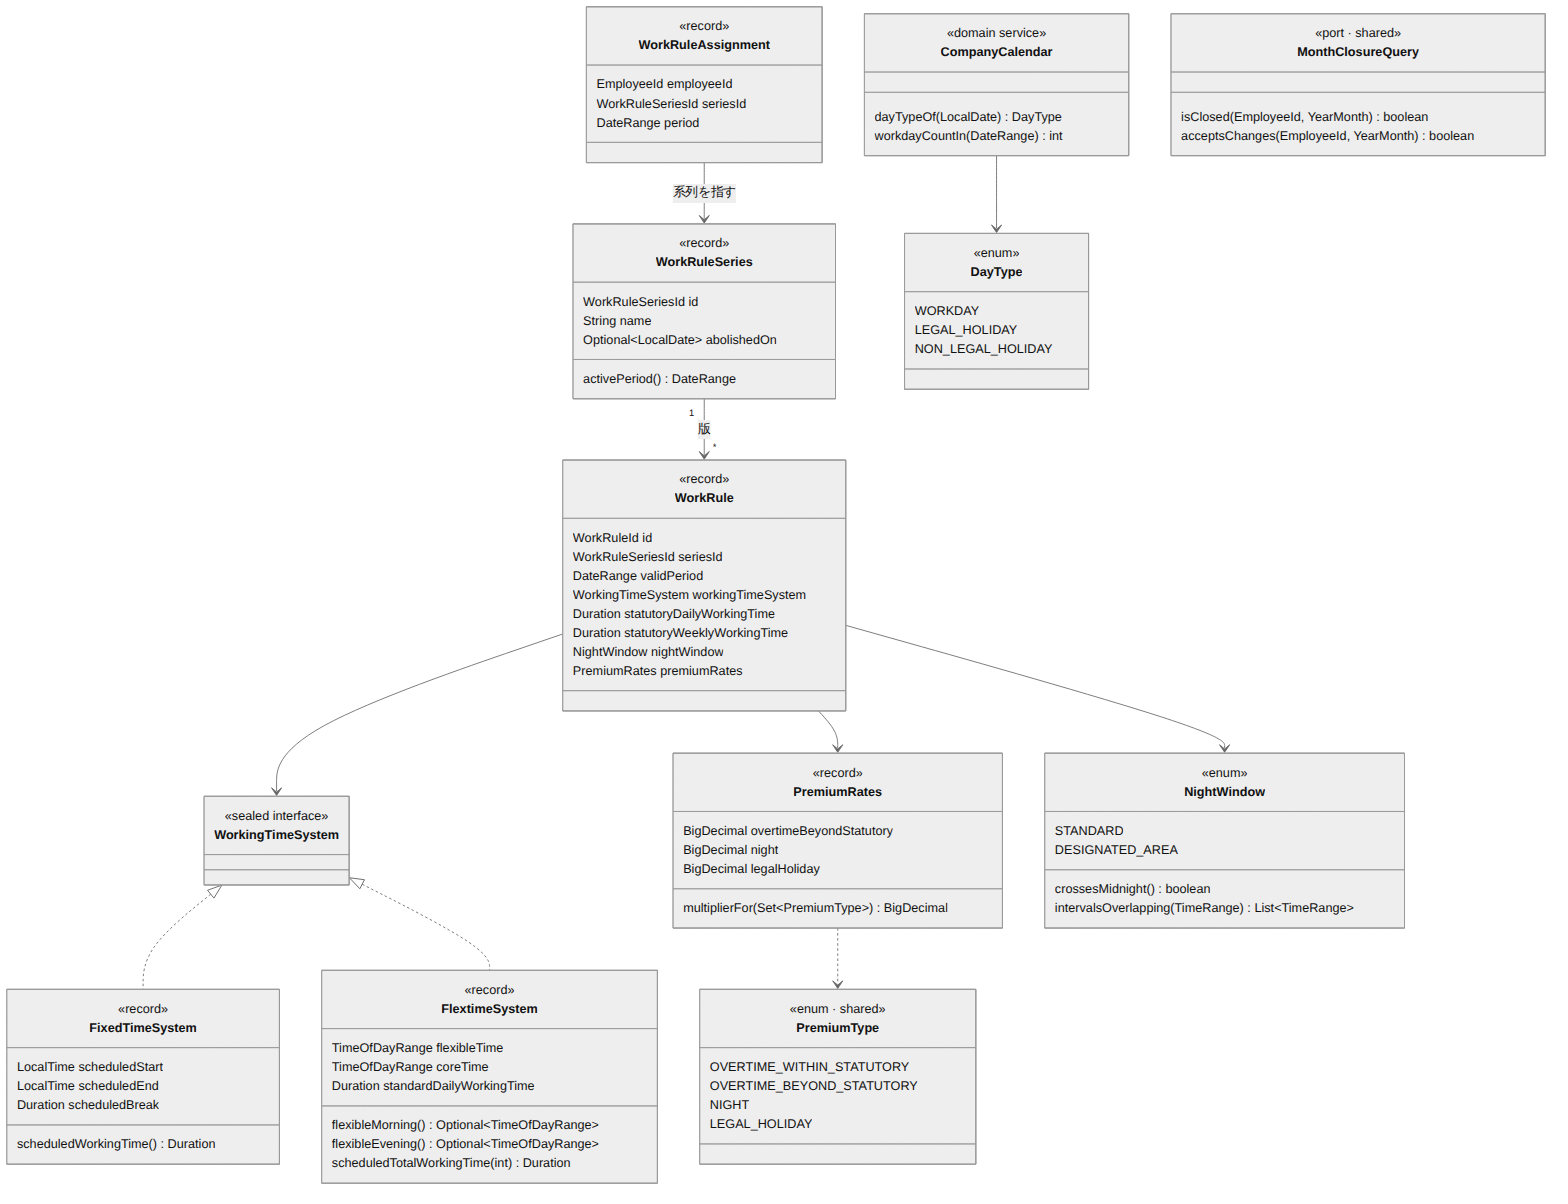
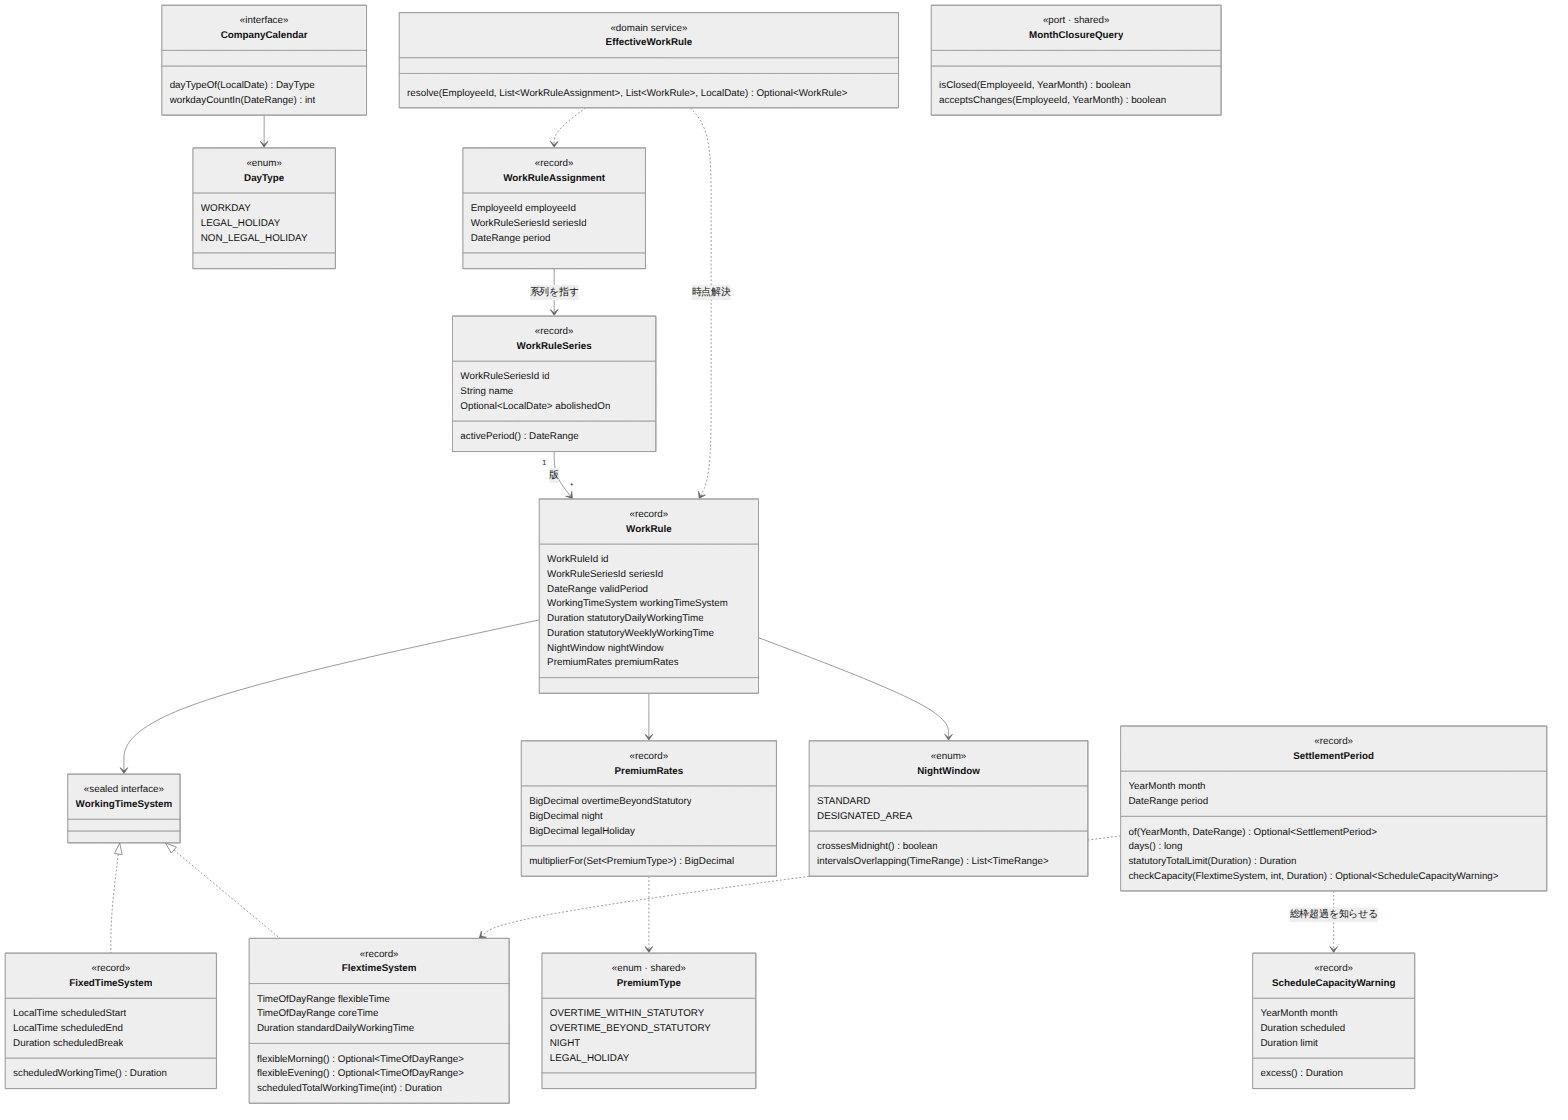
レビュー第 3 回の低優先の指摘を反映し、記録を残す
割増率の倍率計算が、不変条件を持たない生の Set を受け取っていた。
排他の検査は WorkSlice が強制しているが、この引数には型として届かない。
if / else if がありえない組み合わせを黙って法定休日として採るので、
ここでも排他を検査する。

ScheduleExceedsStatutoryLimit は例外に見える名前だが record（警告値）
だったので ScheduleCapacityWarning に改めた。javadoc に「例外にしない」
とわざわざ断っていたのは、名前が誤解を招くことの裏返しである。

深夜帯 23:00-06:00（大臣が定める地域）は設計にだけ存在し、要件定義書に
無かった。要件に無い概念は要件を先に改訂する、という自分の規約に反する。

件数の手書きをやめた。単体テスト仕様書は要件ごとの件数を手で書いており、
ケースを足すたびに合わなくなって 5 行が実際と食い違っていた。件数は
collect-tests.py が設計書から数えて一覧に出す。

CI が ID の網羅を検査すると断定していたが、その仕組みは未整備である
（未決事項 #1）。断定を落とし、逆向き（コードにあって一覧に無い）も
追跡可能性の穴であることを明記した。

そのほか、AR-10 の採番、ArchRuleSelfTest の設計上の決定、例外の階層図、
CompanyCalendar の既定実装の意図、incomplete-time-clock-sequence の
エラー表、ドメインモデル図への SettlementPeriod / EffectiveWorkRule /
ScheduleCapacityWarning の追加を設計書へ反映した。

レビュー記録を doc/06 に残した。4 名のレビュアーに共通して課したのは
「実際に手を動かして裏付けを取る」ことである。乱数 100 万件のファズ、
16 回のミューテーション、実 DB への INSERT、生成物の再生成で、
推測ではなく再現手順を伴う指摘だけを受け取った。

Claude-Session: https://claude.ai/code/session_015d3PU7mBG9c8MgPaMkHzr2

diff --git a/doc/_tools/collect-tests.py b/doc/_tools/collect-tests.py
@@ -90,6 +90,7 @@ def render(prefix, title, rows):
     out.append('')
     out.append('---')
     out.append('')
+    out.append(render_by_requirement(rows))
     for _, label in CONTEXTS:
         part = [r for r in rows if r['context'] == label]
         if not part:
@@ -104,6 +105,28 @@ def render(prefix, title, rows):
             out.append(f"| `{r['id']}` | {r['view']} | {r['expect']} | {r['ref']} | {link} |")
         out.append('')
     return '\n'.join(out) + '\n'
+
+
+def render_by_requirement(rows):
+    """要件 ID（BR-xx）ごとの件数。
+
+    **手で数えない。** 仕様書に件数を書いていたが、
+    ケースを足すたびに合わなくなり、5 行が実際と食い違っていた。
+    """
+    counts = {}
+    for r in rows:
+        for br in sorted(set(re.findall(r'BR-\d+', r['ref']))):
+            counts.setdefault(br, []).append(r['id'])
+    if not counts:
+        return ''
+    out = ['## 要件ごとの件数', '',
+           '| 要件 | 件数 |', '| --- | --- |']
+    for br in sorted(counts, key=lambda b: int(b.split('-')[1])):
+        out.append(f'| `{br}` | {len(counts[br])} |')
+    untraced = [r['id'] for r in rows if not re.search(r'BR-\d+', r['ref'])]
+    out.append(f'| （要件に紐づかない） | {len(untraced)} |')
+    out.append('')
+    return '\n'.join(out)
 
 
 def main():

diff --git a/src/backend/src/main/java/jp/co/sample/kintai/workrule/domain/SettlementPeriod.java b/src/backend/src/main/java/jp/co/sample/kintai/workrule/domain/SettlementPeriod.java
@@ -73,7 +73,7 @@ public record SettlementPeriod(YearMonth month, DateRange period) {
      * <p><strong>例外にしない。</strong> 適法な状態なので登録は許し、人事に知らせるだけにする。
      * 規則の登録・改定時とカレンダーの一括設定時に呼ぶ。
      */
-    public Optional<ScheduleExceedsStatutoryLimit> checkCapacity(
+    public Optional<ScheduleCapacityWarning> checkCapacity(
             FlextimeSystem flex, int workdayCount, Duration statutoryWeekly) {
         if (flex == null) {
             throw new IllegalArgumentException("フレックスの規則に null は許されません");
@@ -81,7 +81,7 @@ public record SettlementPeriod(YearMonth month, DateRange period) {
         Duration scheduled = flex.scheduledTotalWorkingTime(workdayCount);
         Duration limit = statutoryTotalLimit(statutoryWeekly);
         return scheduled.compareTo(limit) > 0
-                ? Optional.of(new ScheduleExceedsStatutoryLimit(month, scheduled, limit))
+                ? Optional.of(new ScheduleCapacityWarning(month, scheduled, limit))
                 : Optional.empty();
     }
 }

diff --git a/src/backend/src/main/java/jp/co/sample/kintai/workrule/domain/PremiumRates.java b/src/backend/src/main/java/jp/co/sample/kintai/workrule/domain/PremiumRates.java
@@ -68,6 +68,17 @@ public record PremiumRates(BigDecimal overtimeBeyondStatutory, BigDecimal night,
      * </pre>
      */
     public BigDecimal multiplierFor(Set<PremiumType> premiums) {
+        if (premiums == null) {
+            throw new IllegalArgumentException("割増区分の集合に null は許されません");
+        }
+        // ★ 排他の検査をここでも行う。呼び出し側（WorkSlice）が強制しているが、
+        //   この引数は生の Set なのでその不変条件が型としては届かない。
+        //   下の if / else if は、ありえない組み合わせを黙って法定休日として採ってしまう
+        long exclusive = premiums.stream().filter(PremiumType::partitionsWorkingTime).count();
+        if (exclusive > 1) {
+            throw new IllegalArgumentException(
+                    "排他的な割増区分が 2 つ以上あります: " + premiums);
+        }
         BigDecimal multiplier = BigDecimal.ONE;
         if (premiums.contains(PremiumType.LEGAL_HOLIDAY)) {
             multiplier = multiplier.add(legalHoliday);

diff --git a/src/backend/src/main/java/jp/co/sample/kintai/attendance/domain/DailyAttendanceCalculator.java b/src/backend/src/main/java/jp/co/sample/kintai/attendance/domain/DailyAttendanceCalculator.java
@@ -77,7 +77,7 @@ public final class DailyAttendanceCalculator {
      *
      * <p>{@code default} 句を書かないので、制度を追加した瞬間にここがコンパイルエラーになる。
      */
-    List<AttendanceRule> rulesFor(WorkRule workRule, DayType workDayType) {
+    private List<AttendanceRule> rulesFor(WorkRule workRule, DayType workDayType) {
         var boundary = new CalendarDayBoundaryRule();
         var night = new NightWorkRule(workRule.nightWindow());
         var holiday = new LegalHolidayWorkRule(calendar);
@@ -88,7 +88,7 @@ public final class DailyAttendanceCalculator {
                     new DailyOvertimeRule(scheduledFor(workDayType, fixed),
                             workRule.statutoryDailyWorkingTime()));
             // フレックス: 日々の所定が無いので日次では残業を判定しない（BR-05）
-            case FlextimeSystem flex -> List.of(boundary, night, holiday);
+            case FlextimeSystem ignored -> List.of(boundary, night, holiday);
         };
     }
 

diff --git a/src/backend/src/main/java/jp/co/sample/kintai/workrule/domain/ScheduleCapacityWarning.java b/src/backend/src/main/java/jp/co/sample/kintai/workrule/domain/ScheduleCapacityWarning.java
@@ -18,9 +18,9 @@ import java.time.YearMonth;
  * @param scheduled 所定総労働時間
  * @param limit     法定労働時間の総枠
  */
-public record ScheduleExceedsStatutoryLimit(YearMonth month, Duration scheduled, Duration limit) {
+public record ScheduleCapacityWarning(YearMonth month, Duration scheduled, Duration limit) {
 
-    public ScheduleExceedsStatutoryLimit {
+    public ScheduleCapacityWarning {
         if (month == null || scheduled == null || limit == null) {
             throw new IllegalArgumentException("警告の項目に null は許されません");
         }

diff --git a/src/backend/src/test/java/jp/co/sample/kintai/workrule/domain/SettlementPeriodTest.java b/src/backend/src/test/java/jp/co/sample/kintai/workrule/domain/SettlementPeriodTest.java
@@ -151,7 +151,7 @@ class SettlementPeriodTest {
     @Test
     @DisplayName("超えていない値では警告を作れない")
     void warningCannotBeBuiltWithoutExcess() {
-        assertThatThrownBy(() -> new ScheduleExceedsStatutoryLimit(
+        assertThatThrownBy(() -> new ScheduleCapacityWarning(
                 YearMonth.of(2026, 6), Duration.ofMinutes(100), Duration.ofMinutes(100)))
                 .isInstanceOf(IllegalArgumentException.class)
                 .hasMessageContaining("総枠を超えていないのに警告を作ろうとしています");

diff --git a/src/backend/src/main/java/jp/co/sample/kintai/attendance/domain/InvalidTimeClockSequenceException.java b/src/backend/src/main/java/jp/co/sample/kintai/attendance/domain/InvalidTimeClockSequenceException.java
@@ -10,7 +10,7 @@ import java.io.Serial;
  * ——退勤し忘れは並びが正しいまま途中なだけで、退勤を打てば解消するからである。
  * 同じ例外にすると、画面が「訂正申請へ」と「退勤を打ってください」を出し分けられない。
  */
-public class InvalidTimeClockSequenceException extends TimeClockSequenceException {
+public final class InvalidTimeClockSequenceException extends TimeClockSequenceException {
 
     @Serial
     private static final long serialVersionUID = 1L;

diff --git a/src/backend/src/main/java/jp/co/sample/kintai/attendance/domain/IncompleteTimeClockSequenceException.java b/src/backend/src/main/java/jp/co/sample/kintai/attendance/domain/IncompleteTimeClockSequenceException.java
@@ -7,7 +7,7 @@ import java.io.Serial;
  *
  * <p>誤りではなく<strong>途中の状態</strong>である。退勤を打てば解消する。
  */
-public class IncompleteTimeClockSequenceException extends TimeClockSequenceException {
+public final class IncompleteTimeClockSequenceException extends TimeClockSequenceException {
 
     @Serial
     private static final long serialVersionUID = 1L;

diff --git a/doc/06_レビュー記録/03_実装_第3回.md b/doc/06_レビュー記録/03_実装_第3回.md
@@ -1,0 +1,127 @@
+# 実装レビュー記録（第 3 回）
+
+| 項目 | 内容 |
+| --- | --- |
+| 文書番号 | KNT-REV-003 |
+| 実施日 | 2026-09-03 |
+| 対象 | M1-a のドメイン実装（`shared` / `workrule` / `attendance`）とテスト 288 件 |
+| 方法 | 観点の異なる 4 名のレビュアーを並行で立てた。**全員に「実際に手を動かして裏付けを取る」ことを課した**（乱数ファザ・ミューテーション・実 DB への INSERT・生成物の再生成） |
+| 指摘件数 | **重大 5 件 / 高 12 件 / 中 15 件 / 低 20 件** |
+
+| レビュアー | 観点 | 検証方法 |
+| --- | --- | --- |
+| 労働法・計算ロジック | 労基法との照合、境界値、不変条件 | 乱数 **1,013,125 件**のファズ。うち 120,000 件は**分単位の独立オラクル**と 7 つの集計値を突合 |
+| Java の設計 | 型・不変条件・例外・不変性 | 各指摘についてプローブを書いて再現 |
+| テストの実効性 | 恒真・代役検査・ミューテーション | 本番コードを **16 回**改変してテストを走らせ、落ちないものを特定 |
+| 設計書と実装の一致 | 追跡可能性、生成物の鮮度 | 生成器（図・一覧・マイグレーション）をすべて再実行して差分を確認 |
+
+---
+
+## 1. この回で分かったこと
+
+### 1.1 「テストがあるから守れている」は思い込みだった
+
+ミューテーションテストを 16 回実施したところ、**多くが生存した**。
+テストは 288 件すべて緑だが、緑の理由は「守れているから」ではなく
+「そこを検査していないから」だった。
+
+| 生存したミューテーション | なぜすり抜けたか |
+| --- | --- |
+| 法定休日を残業の累積に数える | 唯一の担当テストが「法定休日 2 時間 + 翌日 6 時間 = 8 時間」で、**閾値をまたがない**。数えても数えなくても結果が同じ |
+| 法定休日の区間から深夜属性を落とす | 日曜へまたぐケースで `legalHolidayTime()` しか assert していない |
+| 所定の境界で切らない | 固定時間制のテストがすべて所定 8 時間 = 法定 8 時間。**所定 < 法定 という最も普通の設定が 1 件も無い** |
+| 規則の深夜帯・法定労働時間を定数に置き換える | 全テストが既定の規則 1 種類しか使っていない |
+| 集計値と内訳の照合を 2 本削除 | 4 区分あるうち 2 本にしか矢を放っていない |
+| 34 条の 8 時間境界を非厳密にする | 1 点しか試していない |
+| ArchUnit の禁止先を 5 個から 1 個に削る | 各ルールの **1 要素しか**踏んでいない |
+
+**閾値をまたがない数字を選んだテストは、ルールを消しても落ちない。**
+これは第 2 回の落とし穴 24（正常系を 1 行にまとめない）と同型である。
+
+### 1.2 恒真なアサーションを潰しきれていなかった
+
+前回のコミットで 18 か所の恒真な行を外したが、**2 か所残っていた**。
+どちらも `compact constructor` が強制する不変条件を不等式で書き写したもので、
+破れていれば例外で落ちてアサーションに到達しない。
+
+### 1.3 実装を直したときに設計書を戻していなかった
+
+**3 件**見つかった。うち 1 件は、秒の丸めの欠陥を修正したあとも
+設計書が「開始が切り捨て・終了が切り上げなので、逆転はしない」と書いたままで、
+**修正済みの欠陥を設計書がなお正しいと主張する**状態になっていた。
+
+同じ種類の抜けが 3 件出たので、設計規約チェックリストに 8 章
+「実装を変えたとき」を追加した（落とし穴 18 の方針）。
+
+### 1.4 法令上の規定が 2 つ丸ごと抜けていた
+
+要件・設計・実装のどこにも存在しなかった。
+
+- **月 60 時間超の時間外労働に対する 50% 割増**（労基法 37 条 1 項但書）。
+  中小企業への猶予は 2023 年 4 月 1 日に終了している
+- **法定休日から翌暦日へ及んだ労働の通算**（昭 63.3.14 基発 150 号）。
+  通算しないと、例示したケースで **6 時間ぶんの 25% が支払われない**
+
+要件定義書を版 0.4 に改訂した。いずれも月次の集計なので、実装は M1-b で行う。
+
+### 1.5 中核の計算そのものには誤りが無かった
+
+100 万件超のファズで、次の不変条件はいずれも違反 0 件だった。
+
+- 内訳（基本 + 法定内 + 法定外 + 法定休日）の合計 = 実労働時間
+- 休憩時間 ≥ 0、区間が重ならず時系列順、分割前後で合計が変わらない
+- 分単位の独立オラクルとの 7 値一致（120,000 件で差分 0）
+- 1 分未満の休憩 832,162 件で区間の重なり 0 件（落とし穴 32 の修正が効いている）
+
+---
+
+## 2. 重大な指摘と対応
+
+| # | 指摘 | 対応 |
+| --- | --- | --- |
+| 1 | **出勤と退勤が同一時刻だと HTTP 500 になり、打刻が記録できない。** 拘束時間として長さ 0 の `TimeRange` を作ろうとして `IllegalArgumentException` が飛ぶ。`DomainException` ではないので Problem Details に変換されない | 拘束時間 0 分として扱う。`isClosed()` の契約違反も直した |
+| 2 | **法定休日から翌暦日へ及んだ労働が通算されない**（割増の不払い） | 要件を版 0.4 に改訂。実装は月次（M1-b） |
+| 3 | **月 60 時間超の 50% 割増がどこにも無い** | 同上 |
+| 4 | **業務ルール違反 5 件が `DomainException` を継承していない。** API 設計書が 422 と書いている経路が 500 になる | `BusinessRuleViolationException` を新設して差し替え |
+| 5 | **`daily_attendance_slices` に整合性の制約が 1 つも無い。** 無関係な `calendar_date`・暦日をまたぐ区間・重なった区間をすべて受け入れていた | `CHECK` 2 つと `EXCLUDE` を追加 |
+
+---
+
+## 3. 規約に昇格させたもの
+
+同じ指摘が繰り返された、または再発を防げないと判断したものを規約にした。
+
+| 追加先 | 内容 |
+| --- | --- |
+| CLAUDE.md 落とし穴 38 | 実装を直したら、根拠になった設計書の節も同じコミットで直す |
+| CLAUDE.md 落とし穴 39 | 導出できる値を列として持つなら、食い違いを DB で禁じる |
+| CLAUDE.md 落とし穴 40 | 長さ 0 の区間を作れない型に、長さ 0 になりうる値を渡さない |
+| CLAUDE.md 落とし穴 41 | 同時刻の打刻に固定の全順序を与えない |
+| CLAUDE.md 落とし穴 42 | 「誰の」を引数で受け取らない解決関数を作らない |
+| CLAUDE.md 落とし穴 43 | ミューテーションテストは実際に走らせる |
+| CLAUDE.md 落とし穴 44 | PNG は再生成しても毎回バイト差分が出るものがある |
+| CLAUDE.md 落とし穴 45 | 生成器が拾えない ID を書かない |
+| 設計規約チェックリスト 7 章 | 閾値をまたぐ数字を選んだか／不変条件は強制している場所に破れた値を渡したか／既定値以外でも確かめたか／ID は生成器が拾える形か |
+| 設計規約チェックリスト 8 章 | 実装を変えたときの確認項目（新設） |
+
+---
+
+## 4. 残した未決事項
+
+| # | 内容 | 判断の時期 |
+| --- | --- | --- |
+| 1 | 内訳の合計が `working_minutes` に一致することを DB でも保証するか（`DEFERRABLE` な制約トリガが要る） | M1-a の永続化アダプタ |
+| 2 | 打刻列の拘束時間に上限を設けるか（現状は 63 日の勤務も構築できる） | M1-c |
+| 3 | 34 条「休憩は労働時間の途中に与える」の検証（現状は総量のみ） | M2 |
+| 4 | 一覧の ID がコードに現れることを機械的に検査する仕組み | M1-a |
+
+---
+
+## 5. 結果
+
+| 項目 | 前 | 後 |
+| --- | --- | --- |
+| テスト | 288 件 | **327 件** |
+| 生存したミューテーション | 16 件中の多数 | **確認したものはすべて死亡** |
+| 一覧に無い ID | 7 件 | **0 件** |
+| 要件定義書 | 版 0.3 | **版 0.4** |

diff --git a/doc/02_詳細設計/02_就業規則・カレンダー/ドメインモデル設計書.md b/doc/02_詳細設計/02_就業規則・カレンダー/ドメインモデル設計書.md
@@ -308,10 +308,24 @@ public enum NightWindow {
 
 ### 2.5 CompanyCalendar — 会社カレンダー
 
+**日数の数え方はインタフェースの既定実装に置く。**
+実装側に置くと、半開区間の数え方（末日を含むか）を実装の数だけ間違えられる。
+テストの代役に置いた場合はさらに悪く、**そのテストは本番のコードを 1 行も検査しない**
+（CLAUDE.md 落とし穴 37）。代役が答えるのは「その日が何の日か」だけにする。
+
+端が番兵（無期限）の期間では数えられないので例外にする。
+`LocalDate.MAX` まで 1 日ずつ回すと約 21 億回になり、応答が返らない。
+
 ```java
 public interface CompanyCalendar {
     /** 暦日の区分。未登録の日は所定労働日とみなす。 */
     DayType dayTypeOf(LocalDate date);
+
+    /**
+     * 指定期間の所定労働日数。半開区間で受ける。
+     * 数え方は dayTypeOf から一意に決まるので、既定実装をここに置く。
+     */
+    default int workdayCountIn(DateRange period) { ... }
 
     /** 指定期間の所定労働日数。期間は半開区間。 */
     int workdayCountIn(DateRange period);
@@ -446,12 +460,12 @@ public record SettlementPeriod(YearMonth month, DateRange period) {
 
 ```java
 /** 清算期間の所定総労働時間が法定総枠を超えるか。超えるなら警告を返す。 */
-public Optional<ScheduleExceedsStatutoryLimit> checkCapacity(
+public Optional<ScheduleCapacityWarning> checkCapacity(
         FlextimeSystem flex, int workdayCount, Duration statutoryWeekly) {
     Duration scheduled = flex.scheduledTotalWorkingTime(workdayCount);
     Duration limit = statutoryTotalLimit(statutoryWeekly);
     return scheduled.compareTo(limit) > 0
-            ? Optional.of(new ScheduleExceedsStatutoryLimit(month, scheduled, limit))
+            ? Optional.of(new ScheduleCapacityWarning(month, scheduled, limit))
             : Optional.empty();
 }
 ```
